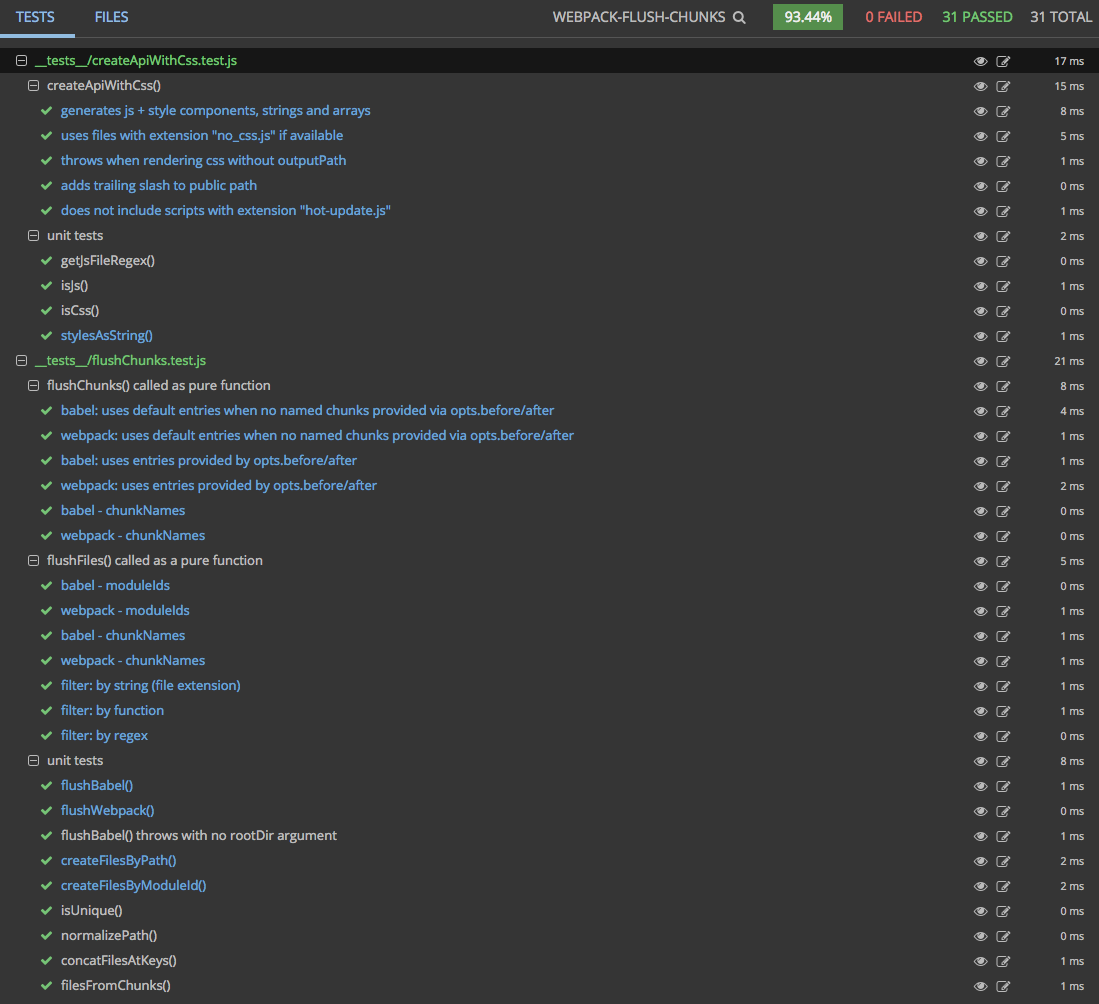
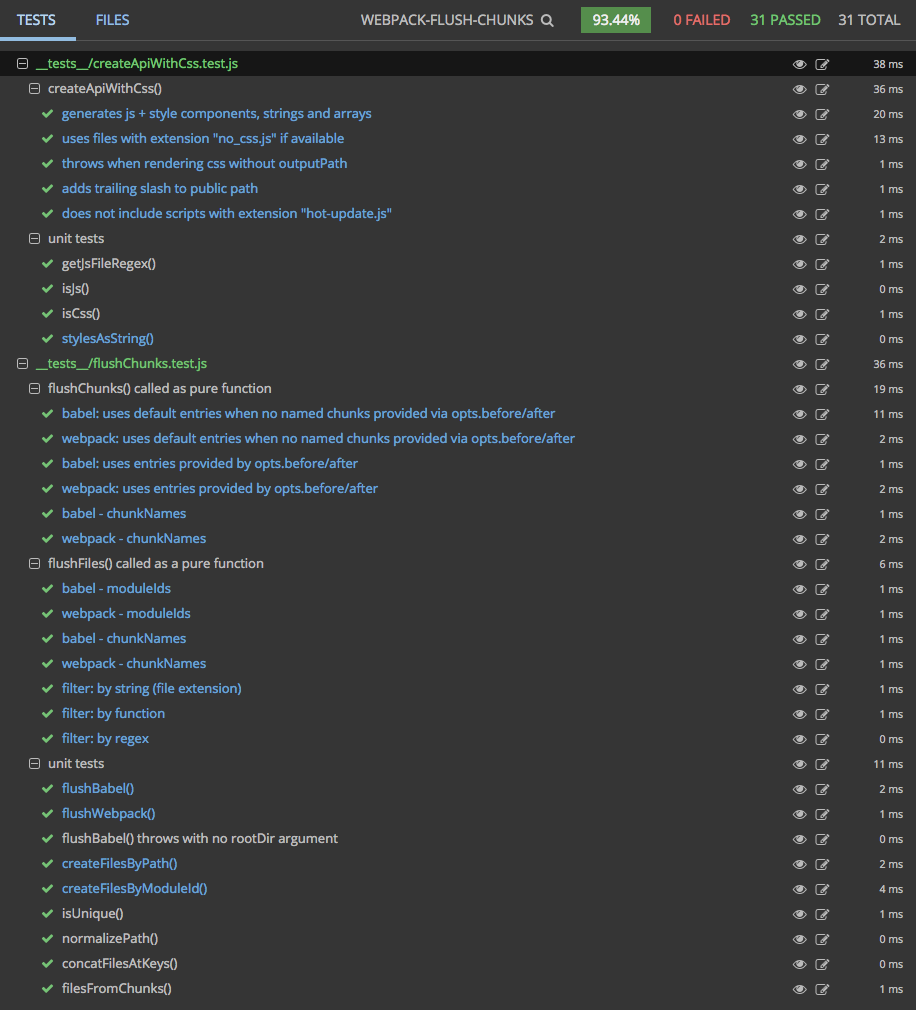
fix($bump): updated tests screenshot + added .codeclimate.yml

Changed region(s): [[0.0, 0.0, 0.6114, 0.988], [0.3974, 0.0, 1.0, 0.988]]

diff --git a/README.md b/README.md
@@ -50,7 +50,6 @@ res.send(`
       ${styles}
     </head>
     <body>
-      ${styles}
       <div id="root">${app}</div>
       ${js}
     </body>
@@ -249,7 +248,7 @@ deep control of the amount of bytes you send in your initial request while takin
 Until now, the best you could do is split your app into chunks, but then additional requests on the client were needed 
 to get those chunks; and then on top of that the promise of server-side rendering was lost.
 
-> Note: if you require a less automated approach where you're given just the stylesheets and scripts corresponding to dynamic chunks (e.g. not `main.js`), see `flushFiles` in the [the low-level API section](#low-level-api-flush-files).
+> Note: if you require a less automated approach where you're given just the stylesheets and scripts corresponding to dynamic chunks (e.g. not `main.js`), see `flushFiles` in the [the low-level API section](#low-level-api-flushfiles).
 
 ## Options API:
 
@@ -791,9 +790,9 @@ It should be clear by now that the main work in using `webpack-flush-chunks` is 
 webpack configs. It's therefore extremely important that you're armed with the precise boilerplates for the route you're taking. Here they are:
 
 - **[Universal Webpack Boilerplate](https://github.com/faceyspacey/webpack-flush-chunks-boilerplate-webpack)**
-- **[Universal Webpack Boilerplate (using chunkNames + magic comments)](https://github.com/faceyspacey/webpack-flush-chunks-boilerplate-webpack)**
-- [Babel Boilerplate](https://github.com/faceyspacey/webpack-flush-chunks-boilerplate-webpack)
-- [Babel Boilerplate (using chunkNames + magic comments)](https://github.com/faceyspacey/webpack-flush-chunks-boilerplate-webpack)
+- **[Universal Webpack Boilerplate (using chunkNames + magic comments)](https://github.com/faceyspacey/webpack-flush-chunks-boilerplate-webpack-chunknames)**
+- [Babel Boilerplate](https://github.com/faceyspacey/webpack-flush-chunks-boilerplate-babel)
+- [Babel Boilerplate (using chunkNames + magic comments)](https://github.com/faceyspacey/webpack-flush-chunks-boilerplate-babel-chunknames)
 
 After checking out the above boilerplates, clicking around their files, and running the different setups (development, production, babel server, etc), how to use *Webpack Flush Chunks* should make sense,
 and you should have a fool-proof place to start from.
@@ -820,7 +819,7 @@ opinion.
 
 
 ## Low-level API: `flushFiles`
-For advanced users that want all files flushed (`.js`, `.css` or whatever else might be in there) and without named entry chunks (such as `bootstrap`, `vendor`, and `main`), here you go:
+For advanced users that want access to all files flushed (`.js`, `.css` or whatever else might be in there) and without named entry chunks you already know (such as `bootstrap`, `vendor`, and `main`), here you go:
 
 ```js
 import { flushChunkNames } from 'react-universal-component/server'
